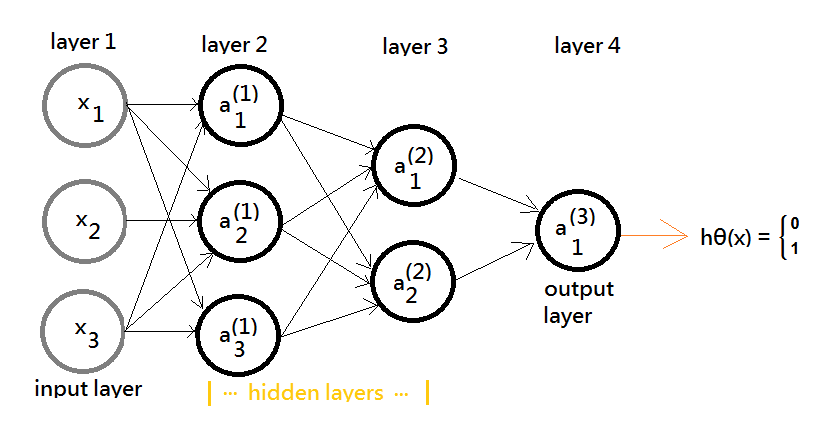
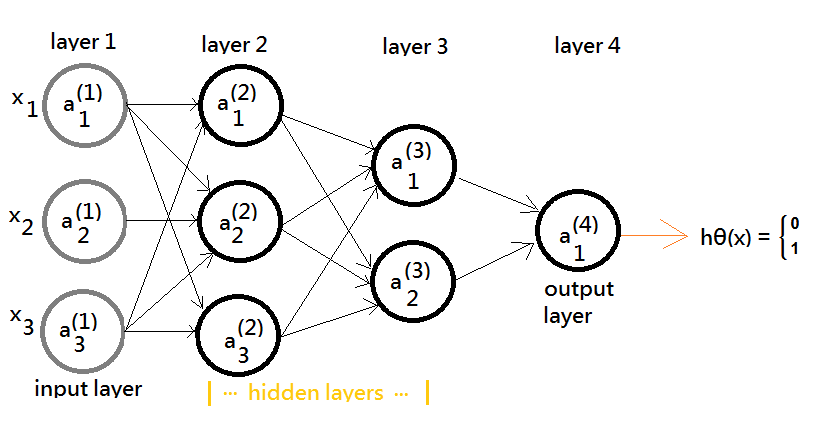
update _posts/2017-11-19-nn-basic-topology.md with basic topology, 2

diff --git a/_posts/2017-11-19-nn-basic-topology.md b/_posts/2017-11-19-nn-basic-topology.md
@@ -18,5 +18,12 @@ the case that jet engines could make human fly but human couldn't fly like a bir
 ![]({{ site.github.repo }}{{ site.baseurl }}/images/pic/2017-11-19-nn-basic-topology-model.png "model representation")
  
 >The model representation graph exhibits that there exists an input layer to receive the external data, an output layer to generate the outcome value, some hidden layes(in this example, layer 2, 3) in between the input and the output layer.  One step further, the model design transfer the output layer outcome to the final preocessing function, usually, by means of the logistic regression to generalize the real identification result.  
->In this paragraph, $a_i^{(j)}$ is to denote the i-th activation function at layer j, wherein, it takes input from layer j-1 and make advanced processing at its layer, output it, in turns becoming the input data to next layer j+1.  We can have the model more generalized in another graph.  
+>We can have the model more generalized in another graph.  
 
+![]({{ site.github.repo }}{{ site.baseurl }}/images/pic/2017-11-19-nn-basic-topology-model-generalized.png "model representation with bias term")
+
+>&#10112;you can think of each distinct layer(<font color="blue">except for the input layer</font>) in the neural network the individual linear regression model, which (<font color="red">takes an intercept expressed by the bias term by statistics nature design</font>.  Specific cares for gradient descendent during backward propagation is mandatory, and the bias term is of no need for regularization!!   
+>&#10113;the <font color="green">$\theta^{(j)}$</font> is <font color="green">the weighting matrix</font>, controlling the function mapping from layer $j$ to layer $j+1$.  
+>&#10114;the <font color="red">$a_i^{(j)}$</font> is to denote the $i$-th (<font color="red">activation function</font> at layer $j$, wherein, it takes input from layer $j-1$ and make advanced processing at its layer, output it, in turns becoming the input data to next layer $j+1$.  
+>&#10115;suppose we have the $a_1^{(1)}$, $a_2^{(1)}$,..., $a_n^{(1)}$ as the input data $x\in R^n$.  
+>&#10116;the input at layer $j$(the activation output at layer j) would be mapped to layer $j+1$ by <font color="green">$\theta^{(j)}$</font>.  
